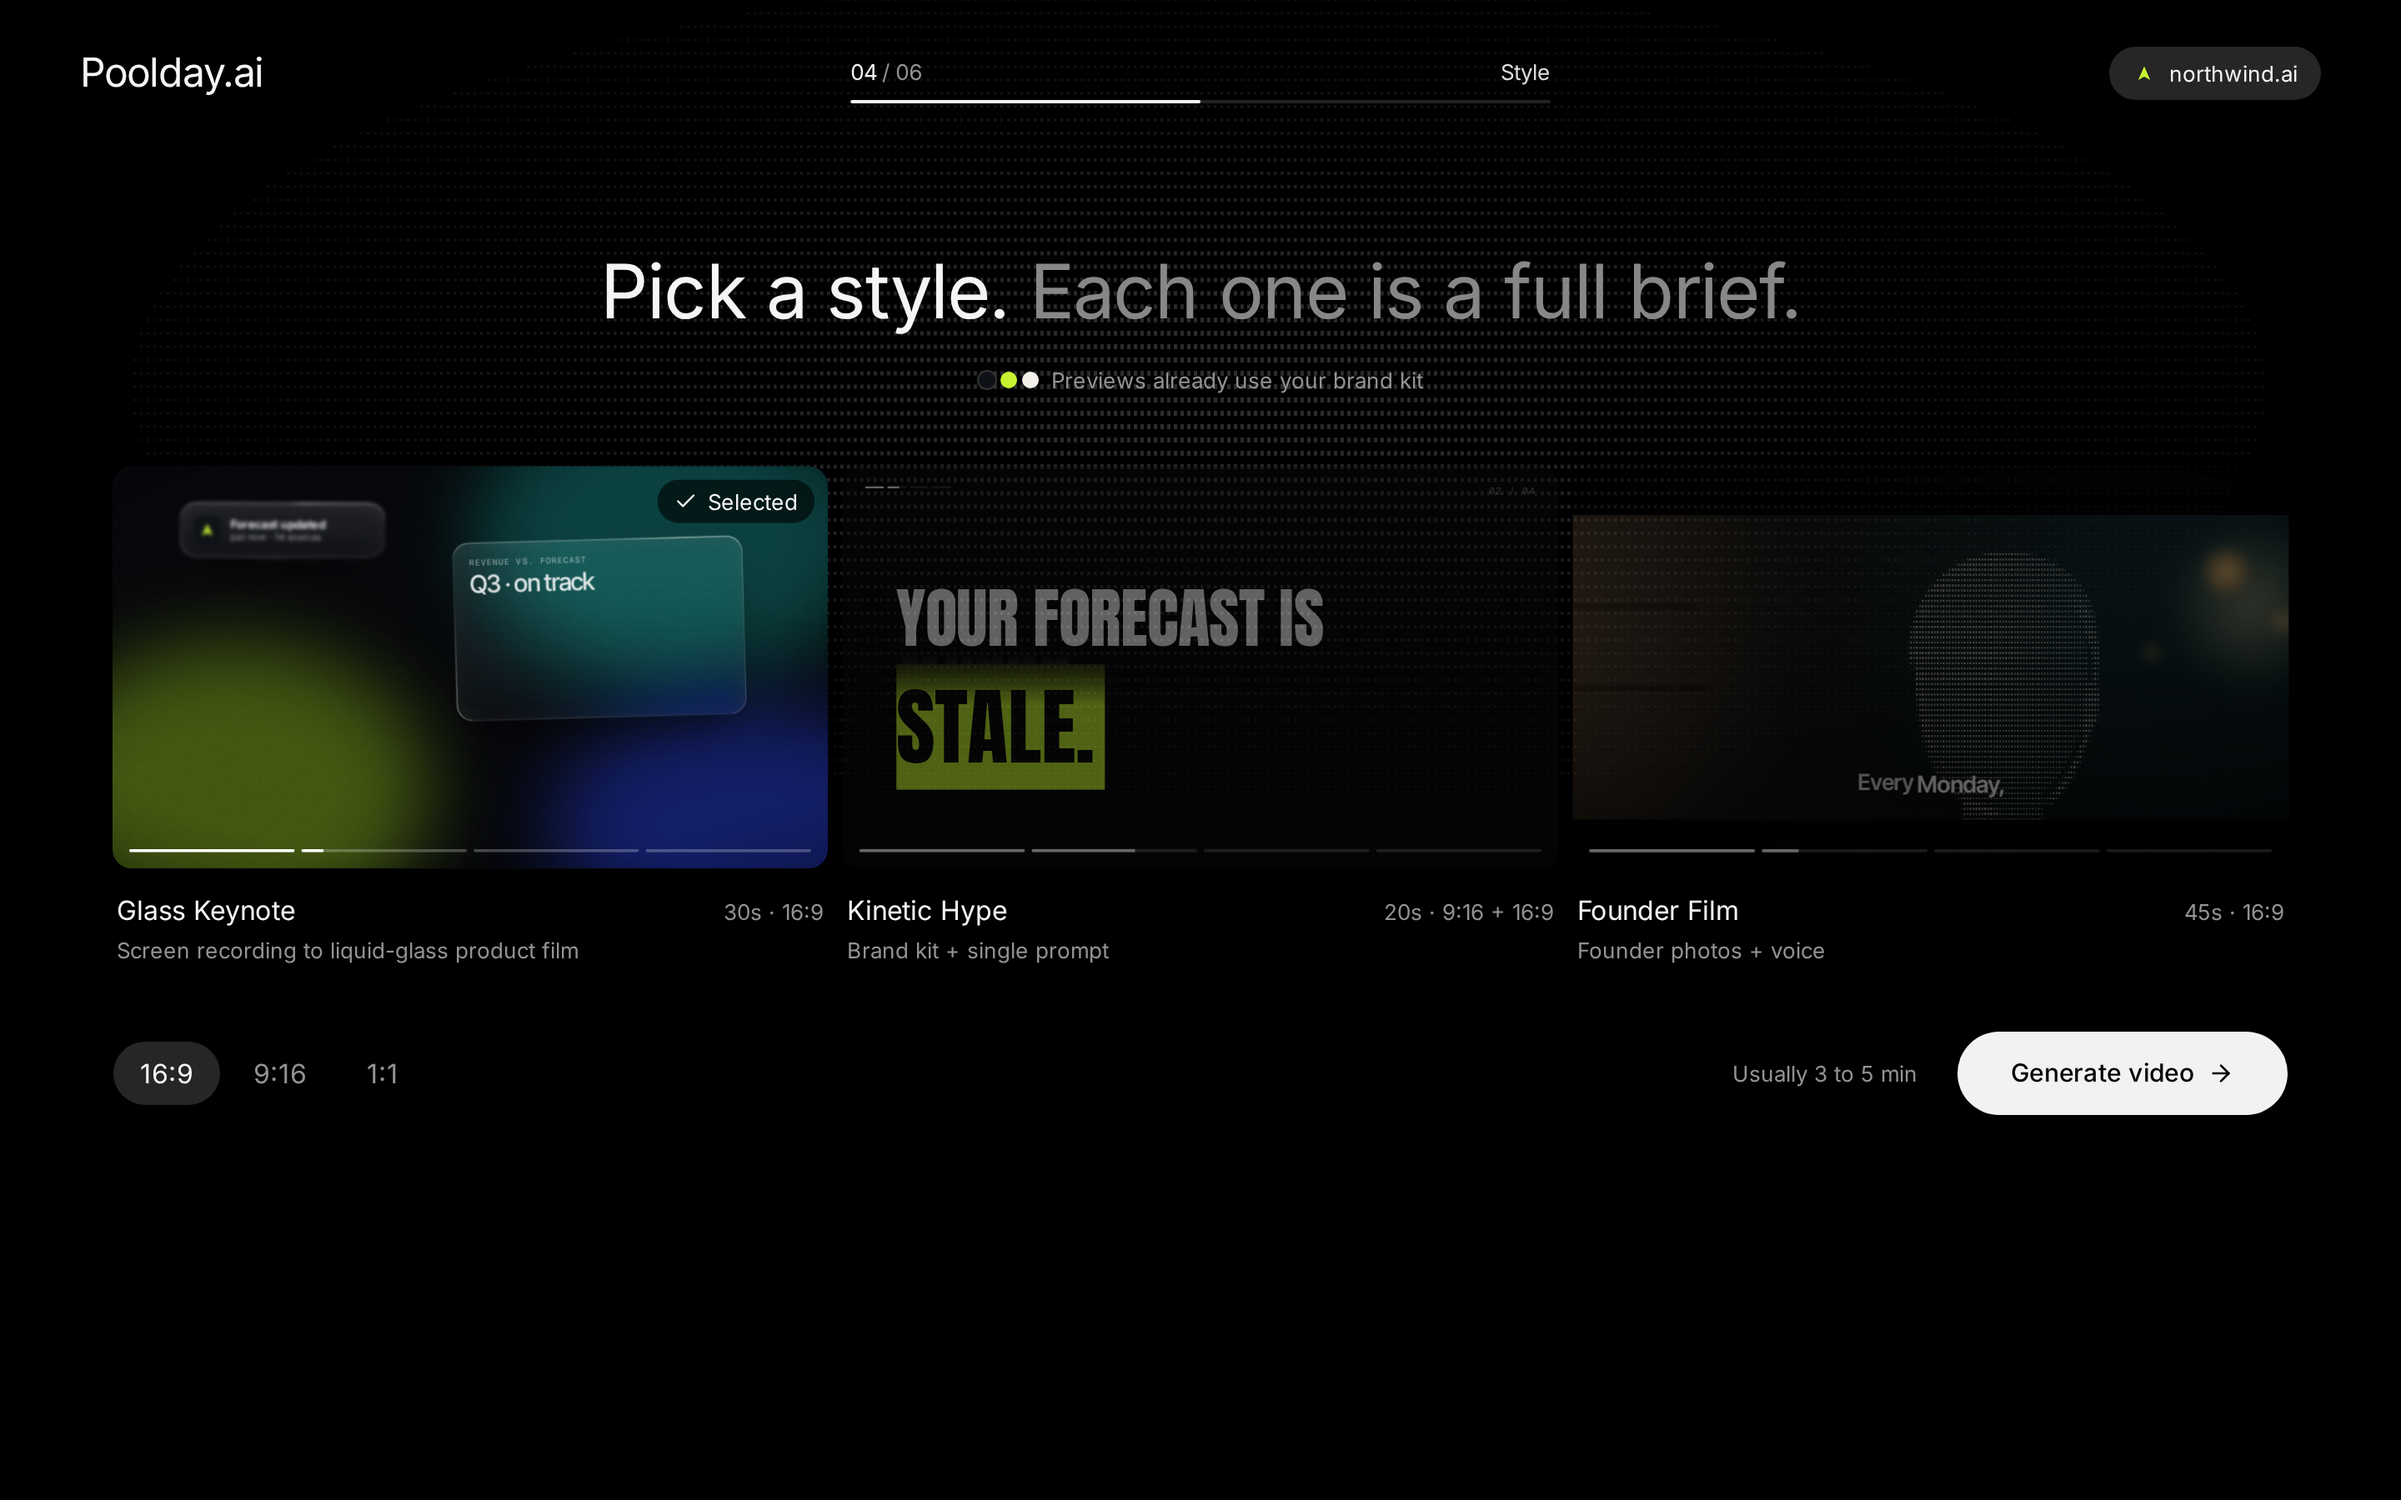
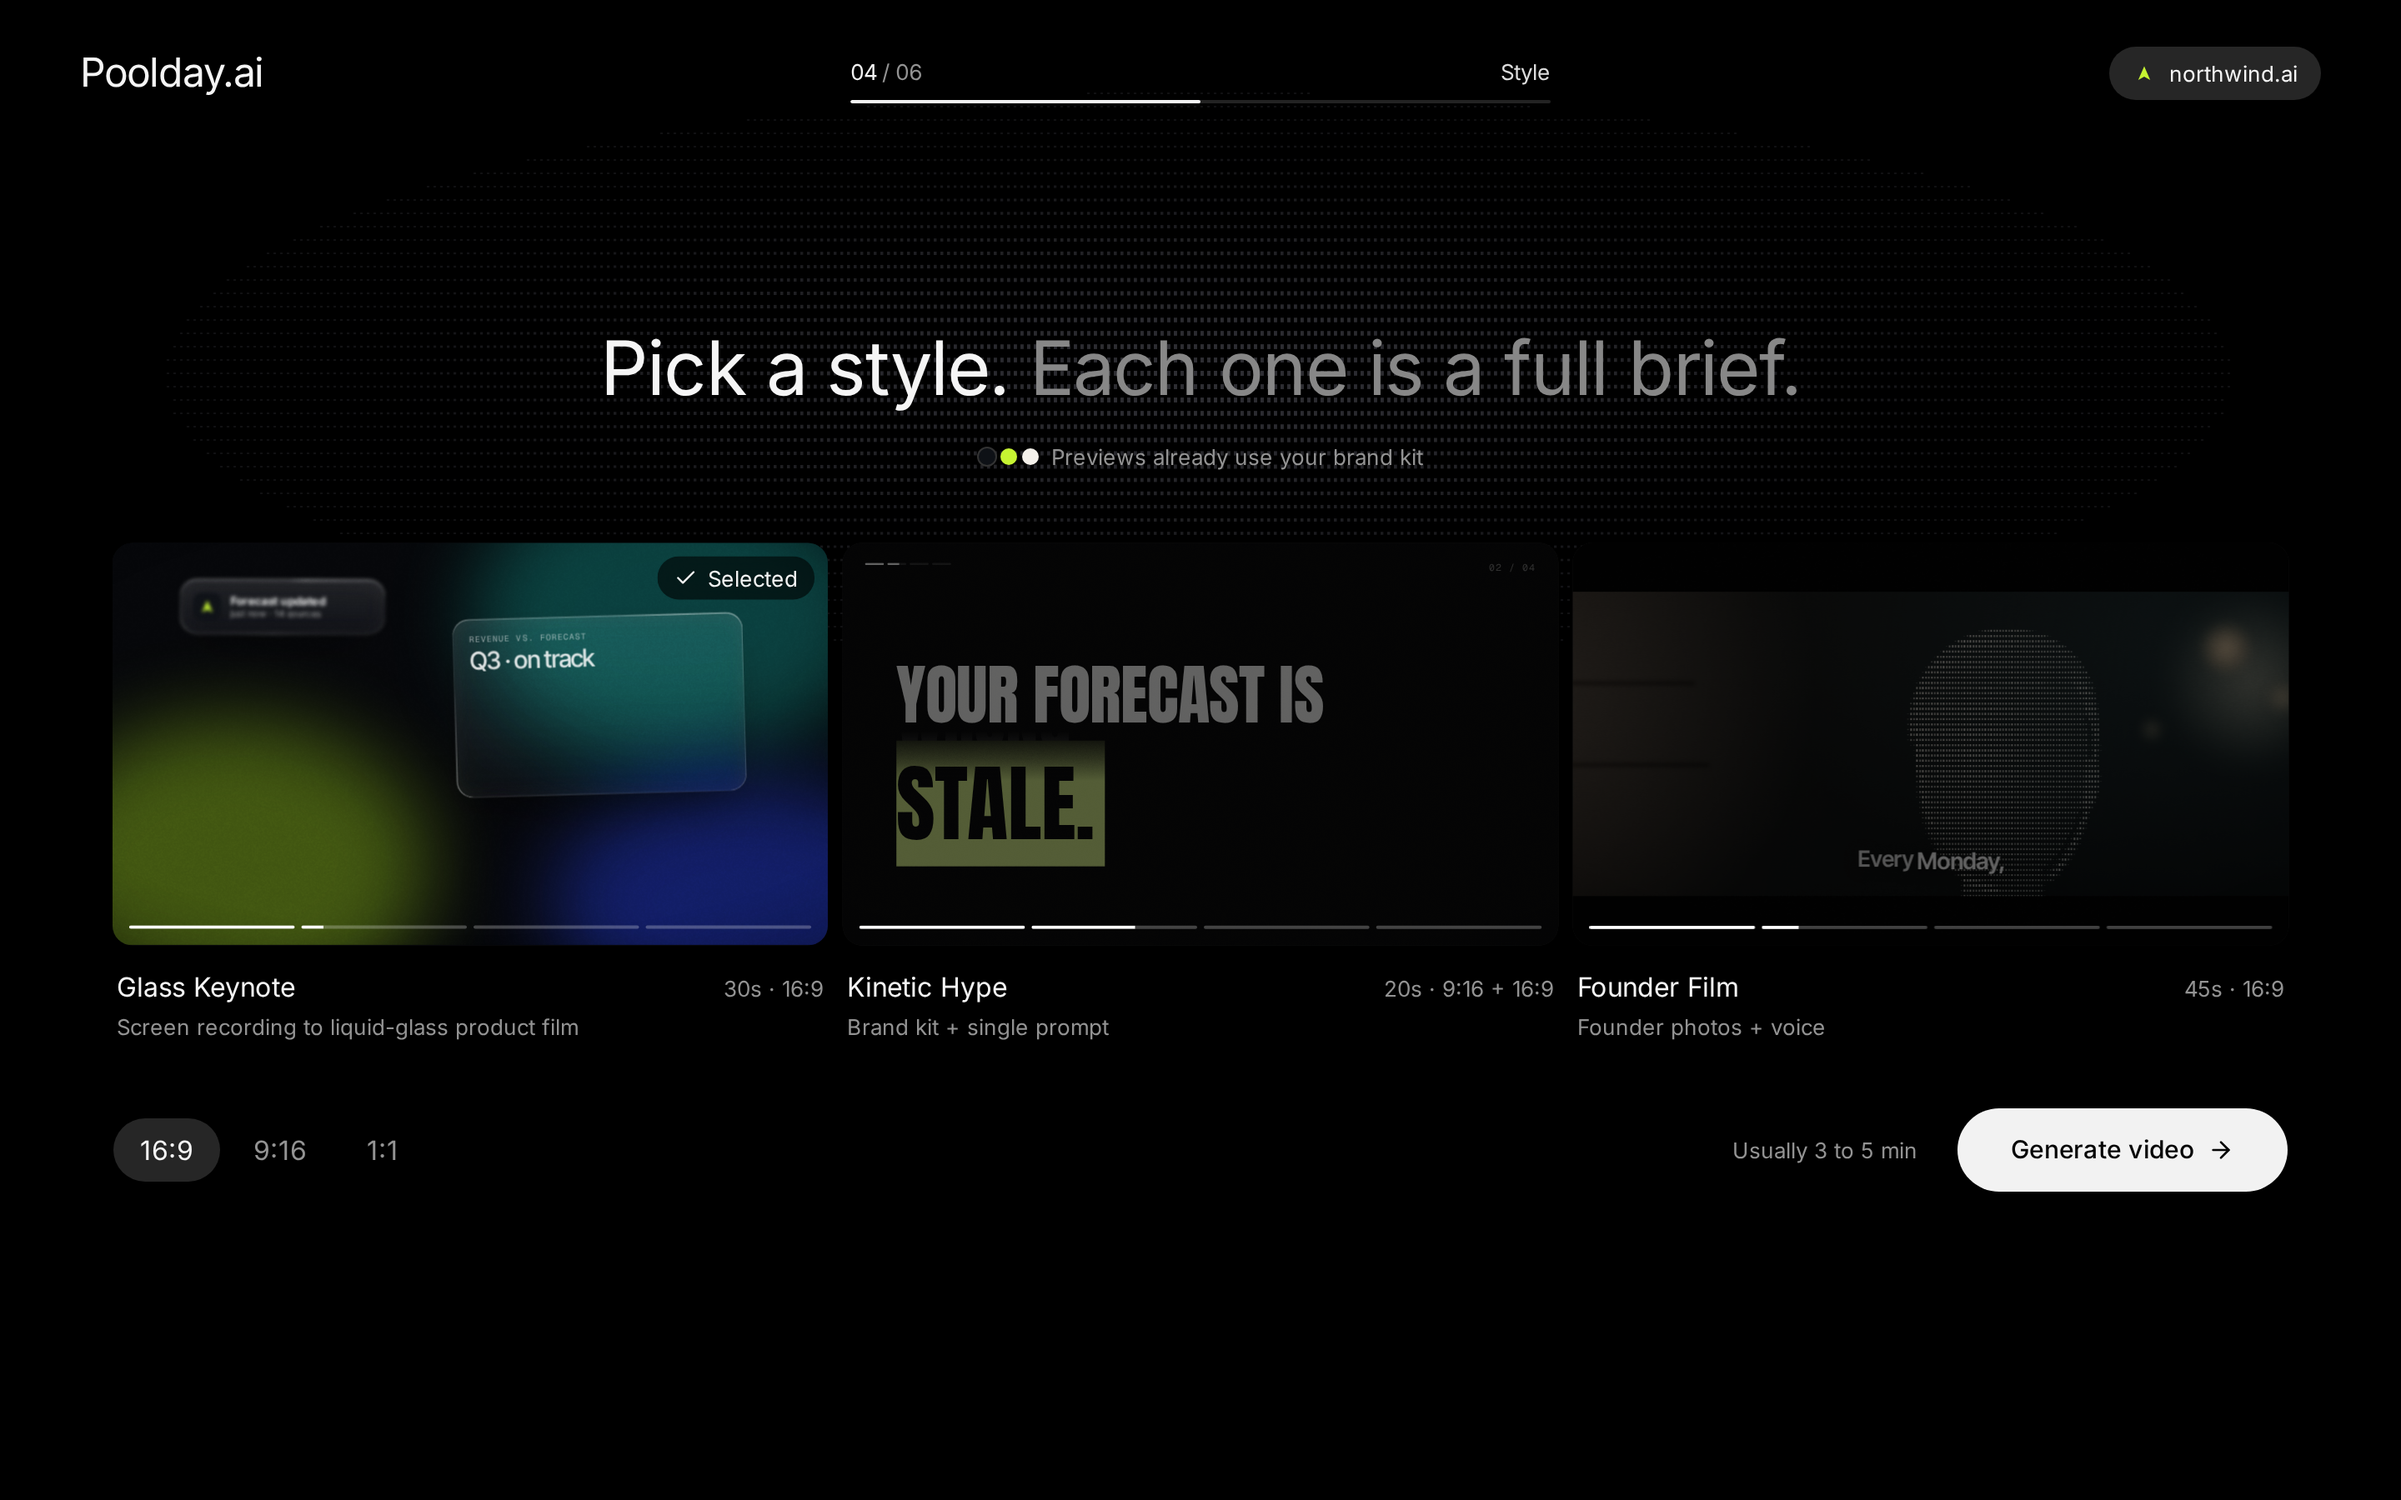
WIP: mockups v2 brand re-skin in progress
Claude-Session: https://claude.ai/code/session_014hQZTHyaVN7FtPgL5qa4Zv

diff --git a/deliverables/D5-mockups/src/app.js b/deliverables/D5-mockups/src/app.js
@@ -163,10 +163,10 @@ function drawScreens(t) {
     } else { s.classList.remove("on"); }
   });
   // Entrances of the current screen: words rise on an exponential settle, blocks stagger 3 frames apart.
-  const scr = $("#" + cur), base = te + (prev ? 0.12 : 0.05);
-  $$(".w", scr).forEach((w, i) => { const tau = fr(t, base + i * 3 / 30); w.style.transform = `translateY(${(1 - expo(tau)) * 30}px)`; w.style.opacity = ink(tau, 0.55); });
+  const scr = $("#" + cur), base = te + 0.05;
+  $$(".w", scr).forEach((w, i) => { const tau = fr(t, base + i * 2 / 30); w.style.transform = `translateY(${(1 - expo(tau)) * 30}px)`; w.style.opacity = ink(tau, 0.55); });
   const nw = $$(".w", scr).length;
-  $$("[data-in]", scr).forEach(el => { const k = +el.dataset.in; const tau = fr(t, base + (nw ? nw * 2 / 30 : 0) + k * 3 / 30);
+  $$("[data-in]", scr).forEach(el => { const k = +el.dataset.in; const tau = fr(t, base + (nw ? Math.min(nw, 5) * 2 / 30 : 0) + k * 3 / 30);
     const tr = ` translateY(${(1 - expo(tau, 0.8)) * 26}px)`; el.dataset.inT = tr; if (!el.hasAttribute("data-ai")) el.style.transform = tr; el.style.opacity = ink(tau, 0.42); });
   return { cur, te };
 }
@@ -227,7 +227,7 @@ function drawAsk(t, scr, te) {
   drawAI(t, ai, q, te);
   const hu = H.get(up) ?? 0, ch = last(t, "choose", e => e.q === q);
   halftone($("canvas", up), { cx: up.offsetWidth / 2 + Math.sin(t / 3) * 30, cy: up.offsetHeight / 2, rx: 260, ry: 90, lo: [20, 20, 20], hi: [36 + 14 * hu, 36 + 14 * hu, 40 + 14 * hu], step: 4, row: 8, y0: 4 });
-  up.style.opacity = ch ? 1 - 0.55 * out3(seg(t, ch.t, ch.t + 0.4)) : "";
+  if (ch) up.style.opacity = +up.style.opacity * (1 - 0.55 * out3(seg(t, ch.t, ch.t + 0.4)));
 }
 
 // ---------------------------------------------------------------- S4: styles (launch)
